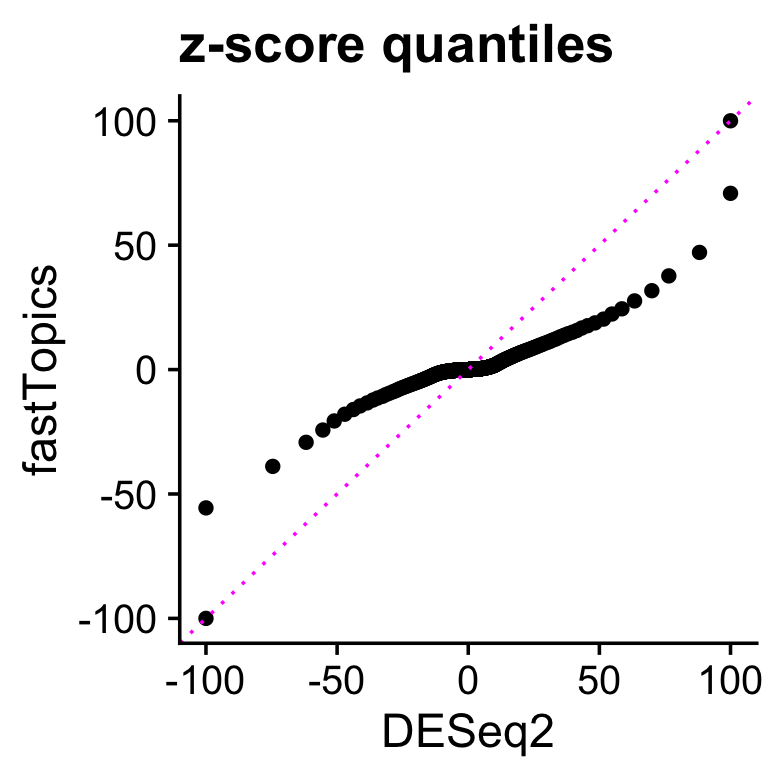
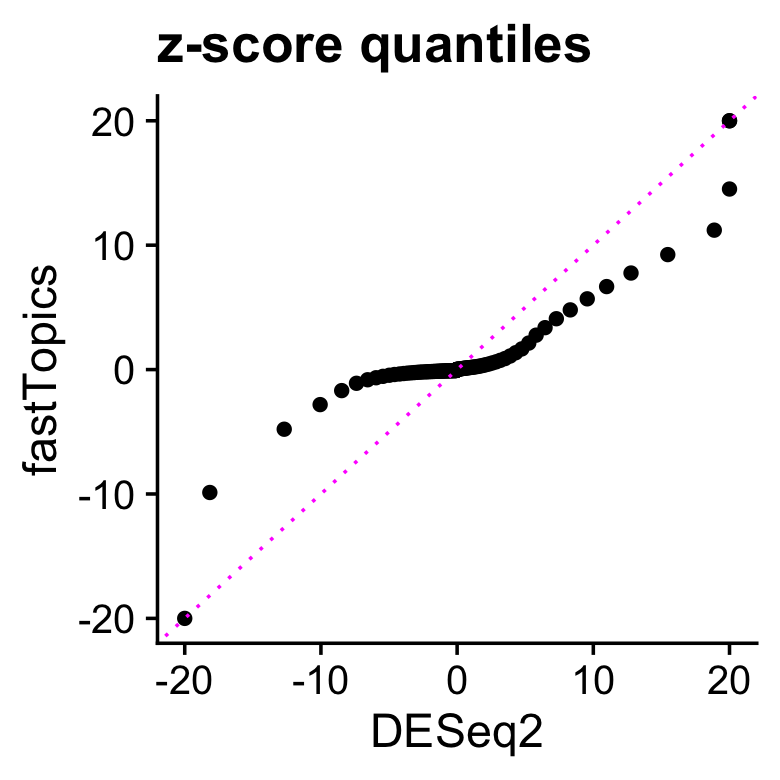
Revised q-q plot in de_analysis_purified_pbmc analysis.

diff --git a/docs/de_analysis_purified_pbmc.html b/docs/de_analysis_purified_pbmc.html
@@ -323,7 +323,7 @@ $(document).ready(function () {
 <div class="tab-content">
 <div id="summary" class="tab-pane fade in active">
 <p>
-<strong>Last updated:</strong> 2021-12-30
+<strong>Last updated:</strong> 2021-12-31
 </p>
 <p>
 <strong>Checks:</strong> <span class="glyphicon glyphicon-ok text-success" aria-hidden="true"></span> 7 <span class="glyphicon glyphicon-exclamation-sign text-danger" aria-hidden="true"></span> 0
@@ -414,23 +414,22 @@ This reproducible <a href="http://rmarkdown.rstudio.com">R Markdown</a> analysis
 <div class="panel panel-default">
 <div class="panel-heading">
 <p class="panel-title">
-<a data-toggle="collapse" data-parent="#workflowr-checks" href="#strongRepositoryversionstrongahrefhttpsgithubcomstephenslabsinglecelltopicstree8d3498dc08f4b4bcf8bdd4d98bb70504a8609b4dtargetblank8d3498da"> <span class="glyphicon glyphicon-ok text-success" aria-hidden="true"></span> <strong>Repository version:</strong> <a href="https://github.com/stephenslab/single-cell-topics/tree/8d3498dc08f4b4bcf8bdd4d98bb70504a8609b4d" target="_blank">8d3498d</a> </a>
+<a data-toggle="collapse" data-parent="#workflowr-checks" href="#strongRepositoryversionstrongahrefhttpsgithubcomstephenslabsinglecelltopicstreeb4ebbb34e098bc9bd645eab54b059008ac891980targetblankb4ebbb3a"> <span class="glyphicon glyphicon-ok text-success" aria-hidden="true"></span> <strong>Repository version:</strong> <a href="https://github.com/stephenslab/single-cell-topics/tree/b4ebbb34e098bc9bd645eab54b059008ac891980" target="_blank">b4ebbb3</a> </a>
 </p>
 </div>
[2 lines of base64/hex data omitted]
 <div class="panel-body">
 <p>
 Great! You are using Git for version control. Tracking code development and connecting the code version to the results is critical for reproducibility.
 </p>
 <p>
-The results in this page were generated with repository version <a href="https://github.com/stephenslab/single-cell-topics/tree/8d3498dc08f4b4bcf8bdd4d98bb70504a8609b4d" target="_blank">8d3498d</a>. See the <em>Past versions</em> tab to see a history of the changes made to the R Markdown and HTML files.
+The results in this page were generated with repository version <a href="https://github.com/stephenslab/single-cell-topics/tree/b4ebbb34e098bc9bd645eab54b059008ac891980" target="_blank">b4ebbb3</a>. See the <em>Past versions</em> tab to see a history of the changes made to the R Markdown and HTML files.
 </p>
 <p>
 Note that you need to be careful to ensure that all relevant files for the analysis have been committed to Git prior to generating the results (you can use <code>wflow_publish</code> or <code>wflow_git_commit</code>). workflowr only checks the R Markdown file, but you know if there are other scripts or data files that it depends on. Below is the status of the Git repository when the results were generated:
 </p>
 <pre><code>
 Ignored files:
-    Ignored:    analysis/figure/
     Ignored:    data/droplet.RData
     Ignored:    data/pbmc_68k.RData
     Ignored:    data/pbmc_purified.RData
@@ -449,7 +448,6 @@ Ignored files:
 Untracked files:
     Untracked:  analysis/de_analysis_detailed_look_cache/
     Untracked:  analysis/de_analysis_detailed_look_more_cache/
-    Untracked:  analysis/files.txt
     Untracked:  plots/
 
 </code></pre>
@@ -489,6 +487,40 @@ Message
 </tr>
 </thead>
 <tbody>
+<tr>
+<td>
+Rmd
+</td>
+<td>
+<a href="https://github.com/stephenslab/single-cell-topics/blob/b4ebbb34e098bc9bd645eab54b059008ac891980/analysis/de_analysis_purified_pbmc.Rmd" target="_blank">b4ebbb3</a>
+</td>
+<td>
+Peter Carbonetto
+</td>
+<td>
+2021-12-31
+</td>
+<td>
+workflowr::wflow_publish(“de_analysis_purified_pbmc.Rmd”, verbose = TRUE)
+</td>
+</tr>
+<tr>
+<td>
+html
+</td>
+<td>
+<a href="https://rawcdn.githack.com/stephenslab/single-cell-topics/7533a43dcd0c24cfb992ead5b5bb2ab04fd9aeda/docs/de_analysis_purified_pbmc.html" target="_blank">7533a43</a>
+</td>
+<td>
+Peter Carbonetto
+</td>
+<td>
+2021-12-30
+</td>
+<td>
+Rebuilt de_analysis_purified_pbmc page after reorg.
+</td>
+</tr>
 <tr>
 <td>
 Rmd
@@ -1640,13 +1672,12 @@ de$lfsr     &lt;- de$lfsr[rows,]</code></pre>
 </div>
 <div id="deseq2-vs.fasttopics" class="section level2">
 <h2>DESeq2 vs. fastTopics</h2>
-<p>Comparing the distributions of all <em>z</em>-scores, we see that the DE analysis allowing for grades of membership has many more <em>z</em>-scores near zero, yet still allows for very large <span class="math inline">\(z\)</span>-scores, illustrating the flexibility of the adaptive shrinkage. (Because there are a few extremely large and extremely small <em>z</em>-scores, for better visualization z-scores larger than 100 in magnitude are shown as 100 or -100.)</p>
-<pre class="r"><code>pdat &lt;-
-  data.frame(deseq     =quantile(deseq$z,seq(0,1,length.out=1000),na.rm=TRUE),
-             fasttopics=quantile(de$z,seq(0,1,length.out=1000),na.rm=TRUE))
-pdat &lt;- transform(pdat,
-                  deseq      = clamp(deseq,-100,+100),
-                  fasttopics = clamp(fasttopics,-100,+100))
+<p>Comparing the distributions of all <em>z</em>-scores for B cells and CD14+ cells, we see that the DE analysis allowing for grades of membership has many more <em>z</em>-scores near zero, yet still allows for large <em>z</em>-scores, illustrating the flexibility of the model. (Because there are a few extremely large and extremely small <em>z</em>-scores, for better visualization z-scores larger than 20 in magnitude are counted as 20 or -20.)</p>
+<pre class="r"><code>pdat &lt;- data.frame(
+  deseq = quantile(clamp(deseq$z[,c(&quot;CD19+ B&quot;,&quot;CD14+ Monocyte&quot;)],-20,+20),
+                   seq(0,1,length.out = 100),na.rm = TRUE),
+  fasttopics = quantile(clamp(de$z[,1:2],-20,+20),
+                        seq(0,1,length.out = 100),na.rm = TRUE))
 p1 &lt;- ggplot(pdat,aes(x = deseq,y = fasttopics)) +
   geom_point() +
   geom_abline(intercept = 0,slope = 1,color = &quot;magenta&quot;,linetype = &quot;dotted&quot;) +
@@ -1768,6 +1799,17 @@ Date
 </tr>
 </thead>
 <tbody>
+<tr>
+<td>
+<a href="https://github.com/stephenslab/single-cell-topics/blob/7533a43dcd0c24cfb992ead5b5bb2ab04fd9aeda/docs/figure/de_analysis_purified_pbmc.Rmd/bcells-z-scores-1.png" target="_blank">7533a43</a>
+</td>
+<td>
+Peter Carbonetto
+</td>
+<td>
+2021-12-30
+</td>
+</tr>
 <tr>
 <td>
 <a href="https://github.com/stephenslab/single-cell-topics/blob/f4b9bd25b017f8c63ecd8e5bd7086cdb80f02720/docs/figure/de_analysis_purified_pbmc.Rmd/bcells-z-scores-1.png" target="_blank">f4b9bd2</a>
@@ -1946,6 +1988,17 @@ Date
 </tr>
 </thead>
 <tbody>
+<tr>
+<td>
+<a href="https://github.com/stephenslab/single-cell-topics/blob/7533a43dcd0c24cfb992ead5b5bb2ab04fd9aeda/docs/figure/de_analysis_purified_pbmc.Rmd/volcano-plots-1.png" target="_blank">7533a43</a>
+</td>
+<td>
+Peter Carbonetto
+</td>
+<td>
+2021-12-30
+</td>
+</tr>
 <tr>
 <td>
 <a href="https://github.com/stephenslab/single-cell-topics/blob/f4b9bd25b017f8c63ecd8e5bd7086cdb80f02720/docs/figure/de_analysis_purified_pbmc.Rmd/volcano-plots-1.png" target="_blank">f4b9bd2</a>
